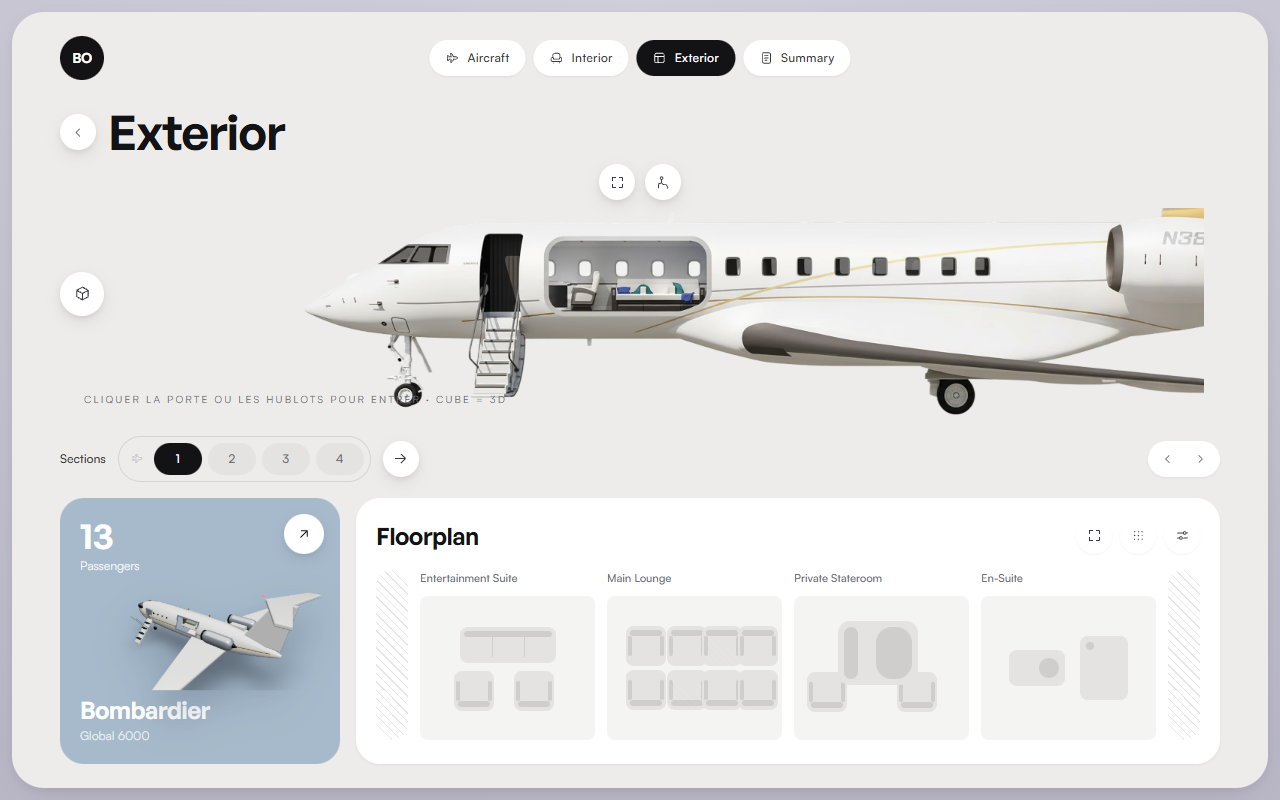
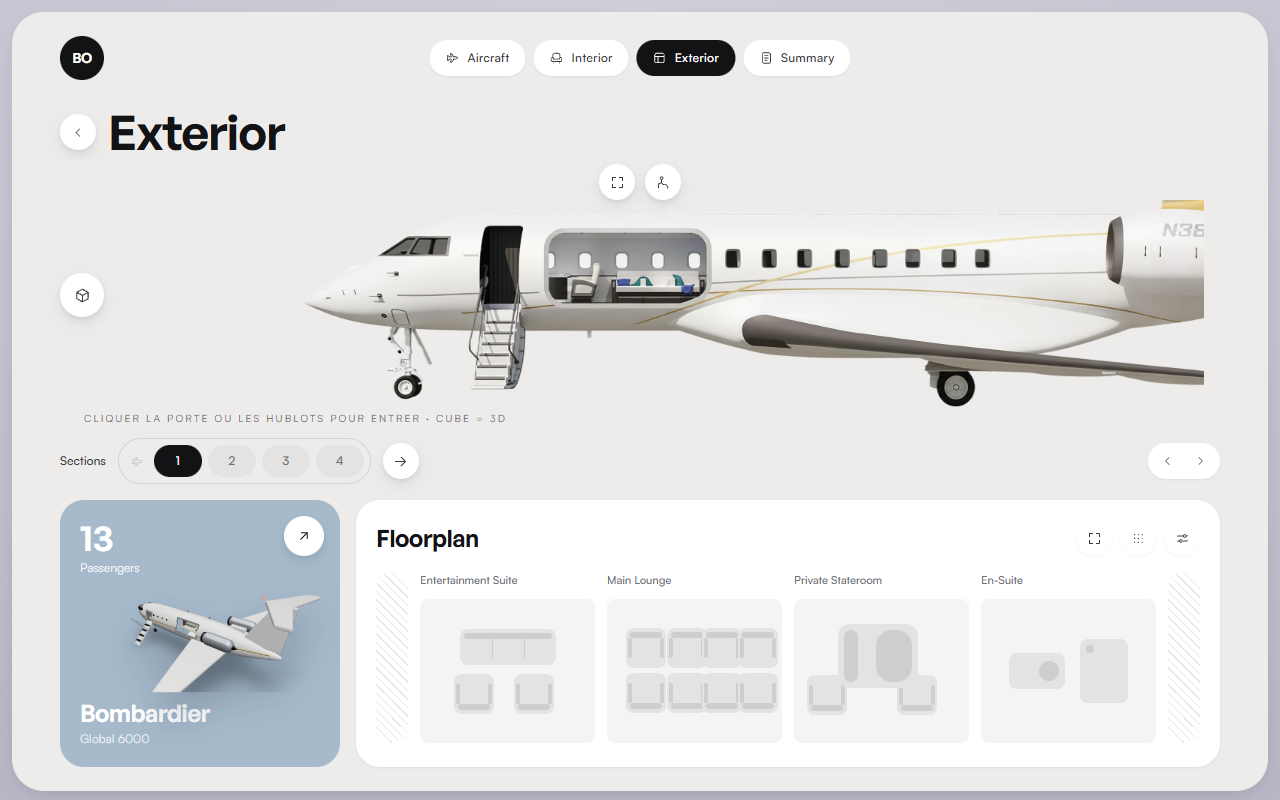
Link Aéro live: romaricsoh-aero.vercel.app
The case study and tour now point to the deployed app, its status reads
"Front-end demo, live", and the exterior capture is retaken with the hint
moved under the jet. The booking test counts 21 checks, not twenty.

diff --git a/src/content/case-studies.ts b/src/content/case-studies.ts
@@ -528,7 +528,7 @@ export const caseStudies: Record<ProjectId, CaseStudy> = {
               "Zustand holds the aircraft, the seat and the booking step. The 3D scene and the 2D cabin plan read and write the same store, so a seat picked in one lights up in the other.",
               "Each aircraft keeps its own seat when you switch, and the booking draft survives a trip back to the cabin.",
               "Client-side validation that says what is wrong and how to fix it, and a price built from the charter rate, the seat and 12% taxes.",
-              "A Playwright test walks the whole journey with twenty checks. Continuous integration replays lint, types, build and that journey on every push.",
+              "A Playwright test walks the whole journey with 21 checks. Continuous integration replays lint, types, build and that journey on every push.",
             ],
           },
         },
@@ -542,7 +542,7 @@ export const caseStudies: Record<ProjectId, CaseStudy> = {
         },
         now: [
           "The front-end is complete, tested and published under the MIT licence.",
-          "Next come a public deployment and an image for link previews.",
+          "It is live at romaricsoh-aero.vercel.app, with an image for link previews.",
         ],
         credit: "Visual direction: a Figma mockup of a jet configurator.",
       },
@@ -568,7 +568,7 @@ export const caseStudies: Record<ProjectId, CaseStudy> = {
               "Zustand garde l'appareil, le siège et l'étape de réservation. La scène 3D et le plan de cabine 2D lisent et écrivent le même store : un siège choisi dans l'un s'allume dans l'autre.",
               "Chaque appareil garde son siège quand on change d'avion, et le brouillon de réservation survit à un retour dans la cabine.",
               "Une validation côté client qui dit ce qui ne va pas et comment le corriger, et un prix calculé à partir de l'affrètement, du siège et de 12 % de taxes.",
-              "Un test Playwright parcourt tout le trajet avec vingt vérifications. L'intégration continue rejoue lint, types, build et ce parcours à chaque push.",
+              "Un test Playwright parcourt tout le trajet avec 21 vérifications. L'intégration continue rejoue lint, types, build et ce parcours à chaque push.",
             ],
           },
         },
@@ -582,7 +582,7 @@ export const caseStudies: Record<ProjectId, CaseStudy> = {
         },
         now: [
           "Le front-end est terminé, testé et publié sous licence MIT.",
-          "Viennent ensuite une mise en ligne publique et une image pour les aperçus de liens.",
+          "Il est en ligne sur romaricsoh-aero.vercel.app, avec une image pour les aperçus de liens.",
         ],
         credit: "Direction visuelle : une maquette Figma de configurateur de jet.",
       },

diff --git a/src/content/tour.ts b/src/content/tour.ts
@@ -237,7 +237,7 @@ export const tour: Record<Locale, TourCopy> = {
             screen: s.aero.booking,
             alt: "Booking summary: route, passenger details and the price for seat ML3",
             title: "From seat to booking",
-            body: "Route, passenger, price, then a confirmation with its reference. A Playwright test replays the whole journey on every push, twenty checks.",
+            body: "Route, passenger, price, then a confirmation with its reference. A Playwright test replays the whole journey on every push, 21 checks.",
           },
         ],
       },
@@ -389,7 +389,7 @@ export const tour: Record<Locale, TourCopy> = {
             screen: s.aero.booking,
             alt: "Récapitulatif de réservation : trajet, coordonnées du passager et prix du siège ML3",
             title: "Du siège à la réservation",
-            body: "Trajet, passager, prix, puis une confirmation avec sa référence. Un test Playwright rejoue tout le parcours à chaque push, vingt vérifications.",
+            body: "Trajet, passager, prix, puis une confirmation avec sa référence. Un test Playwright rejoue tout le parcours à chaque push, 21 vérifications.",
           },
         ],
       },

diff --git a/src/content/projects.ts b/src/content/projects.ts
@@ -94,13 +94,13 @@ export const projects: Project[] = [
     screen: { src: "/projects/aero/exterior.png", width: 1280, height: 800 },
     year: "2026",
     kind: { en: "Booking app", fr: "App de réservation" },
-    status: { en: "Front-end demo complete, not deployed", fr: "Démo front-end terminée, pas mise en ligne" },
+    status: { en: "Front-end demo, live", fr: "Démo front-end, en ligne" },
     summary: {
       en: "Private jet booking in 3D: compare two aircraft, walk through the cabin, pick a seat and book it. The page opens flat in 2D and loads the 3D on demand.",
       fr: "Réservation de jet privé en 3D : comparer deux appareils, visiter la cabine, choisir un siège et le réserver. La page s'ouvre à plat en 2D et charge la 3D à la demande.",
     },
     stack: ["React 19", "React Three Fiber", "GSAP", "Zustand", "Playwright"],
-    links: { code: "https://github.com/laslande24/aero-jet-configurator" },
+    links: { live: "https://romaricsoh-aero.vercel.app", code: "https://github.com/laslande24/aero-jet-configurator" },
   },
 ];
 
